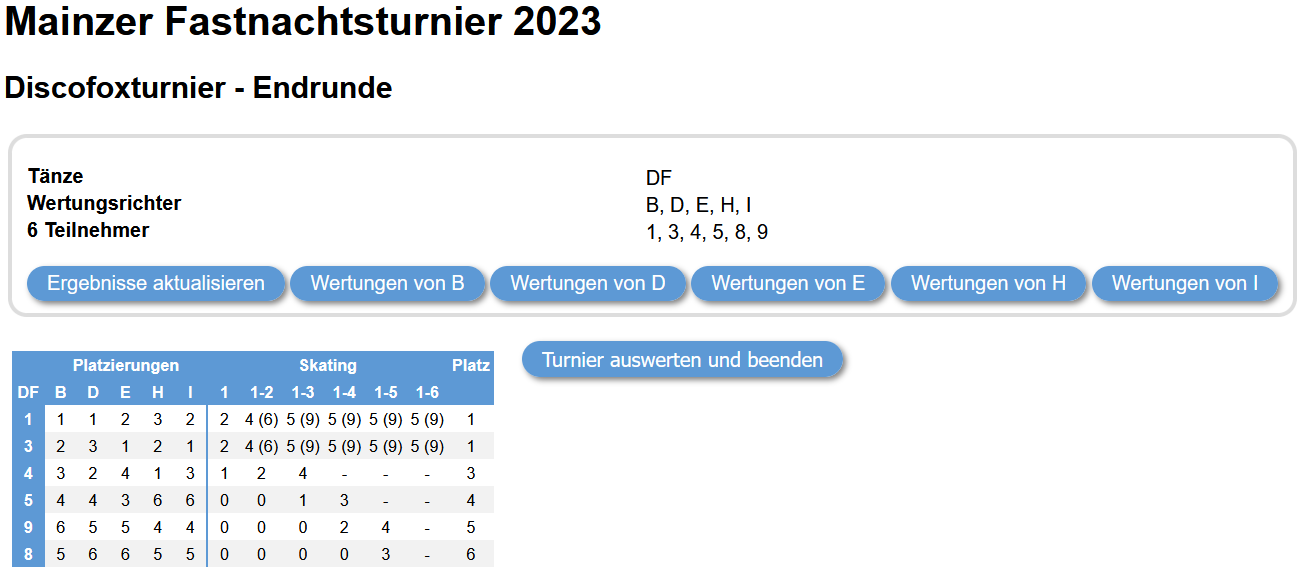
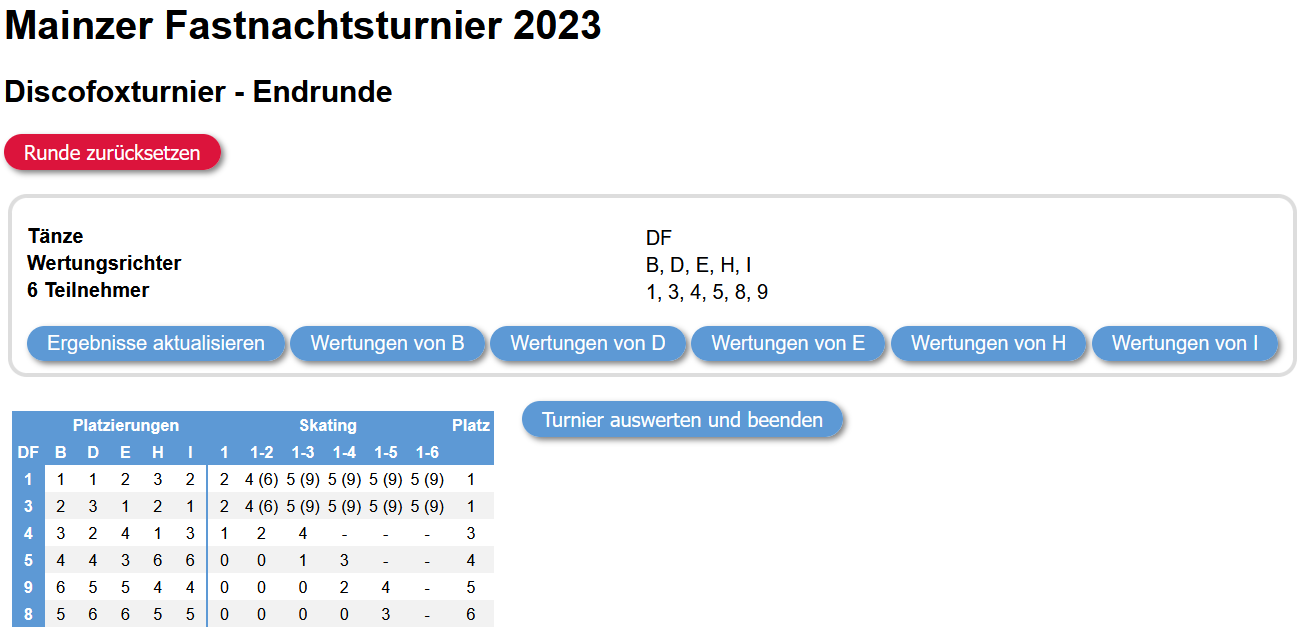
added possibility to reset rounds

diff --git a/main/pydanceweb/templates/pydanceweb/final_round.html b/main/pydanceweb/templates/pydanceweb/final_round.html
@@ -1,5 +1,11 @@
 {% extends 'pydanceweb/base_round.html' %}
 
+{% block links %}
+{% if dance_round.is_running %}
+{% include "pydanceweb/reset_round.html" %}
+{% endif %}
+{% endblock %}
+
 {% block form_controls %}
     {% if dance_round.is_finished %}
     {% elif dance_round.is_running %}

diff --git a/main/pydanceweb/templates/pydanceweb/preliminary_round.html b/main/pydanceweb/templates/pydanceweb/preliminary_round.html
@@ -2,6 +2,7 @@
 
 {% block links %}
 {% if dance_round.is_running %}
+{% include "pydanceweb/reset_round.html" %}
 <div class="row">
   <a href="{% url 'handle_heats' dance_round.section_id dance_round.id %}" class="button">zu den Heats</a>
 </div>

diff --git a/main/pydanceweb/templates/pydanceweb/reset_round.html b/main/pydanceweb/templates/pydanceweb/reset_round.html
@@ -1,0 +1,7 @@
+<div class="row">
+  <form method="post">
+    {% csrf_token %}
+    <input type="hidden" name="reset" id="reset" value="true"/>
+    <button class="alert">Runde zurücksetzen</button>
+  </form>
+</div>

diff --git a/main/pydanceweb/templates/pydanceweb/section_results.html b/main/pydanceweb/templates/pydanceweb/section_results.html
@@ -2,6 +2,9 @@
 
 {% block content %}
 <h2>{{ section.name }} - Ergebnisse</h2>
+{% if resetable %}
+{% include "pydanceweb/reset_round.html" %}
+{% endif %}
 <div class="row">
 {% if place_table %}
 <div class="row">

diff --git a/main/pydanceweb/static/pydanceweb/style.css b/main/pydanceweb/static/pydanceweb/style.css
@@ -115,6 +115,10 @@ button, .button {
     cursor: pointer;
 }
 
+button.alert, .button.alert {
+  background-color: crimson;
+}
+
 button:hover, .button:hover {
     background-color: #FFF;
     color: rgb(157,0,0);

diff --git a/main/pydanceweb/views.py b/main/pydanceweb/views.py
@@ -3,7 +3,7 @@ from django.shortcuts import render
 # Create your views here.
 from django.http import HttpResponse
 from django.template import loader
-from django.shortcuts import render
+from django.shortcuts import redirect, render
 
 from .pydance_objects import *
 from .pydance_tables import *
@@ -82,6 +82,11 @@ def _prepare_round(request, section_id, round_id):
     return render(request, 'pydanceweb/dance_round_preparation.html', context)
 
 def handle_round(request, section_id, round_id):
+    if request.POST and 'reset' in request.POST and request.POST['reset'] == 'true':
+        DanceRounds.remove(DanceRounds.get(section_id, round_id))
+        if round_id > 1:
+            return redirect('handle_round', section_id = section_id, round_id = round_id - 1)
+
     dance_round = DanceRounds.get(section_id, round_id)
     if not dance_round:
         return _prepare_round(request, section_id, round_id)
@@ -155,10 +160,14 @@ def handle_heats(request, section_id, round_id, dance_id=""):
 # => finish current section
 def finalize_section(request, section_id):
     final_round = DanceRounds.get_final(section_id)
+    if request.POST and 'reset' in request.POST and request.POST['reset'] == 'true':
+        Sections.remove_results(Sections.get(section_id))
+        return redirect('handle_round', section_id = final_round.section_id, round_id = final_round.id)
+
     if final_round and not final_round.is_finished:
         # create final summary and finish final
         final_summary = FinalSummaries.create(section_id)
-        final_round = DanceRounds.get_final(section_id)
+        #final_round = DanceRounds.get_final(section_id)
         final_round.is_running = False
         final_round.is_finished = True
         DanceRounds.save(final_round)
@@ -171,7 +180,7 @@ def finalize_section(request, section_id):
 
         # create section results
         Sections.create_results(section)
-    return show_results(request, section_id)
+    return show_results(request, section_id, resetable=True)
 
 # => calc awards
 def handle_award(request, award_id):
@@ -301,13 +310,14 @@ def show_heats(request, section_id, round_id, dance_id=""):
     }
     return render(request, 'pydanceweb/heats.html', context)
 
-def show_results(request, section_id):
+def show_results(request, section_id, resetable=False):
     section = Sections.get(section_id)
     place_table = Sections.get_results(section)
 
     context = {
         'conf': Conf.get(),
         'section': section,
+        'resetable': resetable
     }
 
     if place_table is not None:

diff --git a/main/pydanceweb/models.py b/main/pydanceweb/models.py
@@ -6,6 +6,7 @@ from .award_calculator import *
 from glob import glob
 import json
 import os
+import shutil
 
 # generic helper functions
 def dump_json(json_dict, filepath):
@@ -238,6 +239,19 @@ class Sections:
         place_df['place'] = 1
         return place_df
 
+    def remove_results(section):
+        if not section:
+            return
+        filepath = Sections._get_results_path(section.id)
+        if os.path.exists(filepath):
+            print(filepath)
+            os.remove(filepath)
+            # set final running
+            final_round = DanceRounds.get_final(section.id)
+            final_round.is_finished = False
+            final_round.is_running = True
+            DanceRounds.save(final_round)
+
 class DanceRounds:
     def _get_dir(section_id, round_id):
         return _get_data_path(section_id, round_id)
@@ -313,6 +327,19 @@ class DanceRounds:
     def save(dance_round):
         get_or_create_dir(DanceRounds._get_dir(dance_round.section_id, dance_round.id))
         dump_json(dance_round.to_dict(), DanceRounds._get_filepath(dance_round.section_id, dance_round.id))
+
+    def remove(dance_round):
+        section_id = dance_round.section_id
+        round_id = dance_round.id
+        shutil.rmtree(DanceRounds._get_dir(section_id, round_id))
+        current_section = Sections.get(section_id)
+        current_section.is_running = False
+        Sections.save(current_section)
+        if round_id > 1:
+            previous_round = DanceRounds.get(section_id, round_id - 1)
+            previous_round.is_running = True
+            previous_round.is_finished = False
+            DanceRounds.save(previous_round)
 
 class CallbackMarks:
     def _get_filepath(adjudicator_id, section_id, round_id, dance_id=''):

diff --git a/README.md b/README.md
@@ -84,7 +84,9 @@ From the heats view you can access the round view via the top left button (and f
 
 ![c.f. screenshots/desk_6_preliminary_round_view_2.png](screenshots/desk_6_preliminary_round_view_2.png)
 
-In this view you can access the adjudicator views to edit their callback marks (e.g. in case they have problems or in order to print adjudicator sheets) and press the reload button to update the current result table with callbacks marks from adjudicators. Having done so, you can move on to the next round by selecting the number of competitors that should be called back. Please note that this will lead to a final round if noted that way. (A final is every non first round with 6 or less competitors or up to 8 if the 7th and or 8th are tied with the 6th.)
+In this view you can remove all round data and go back to the last round (e.g. if you accidentally moved on to the next round early or chose an unwanted callback option).
+
+You can also access the adjudicator views to edit their callback marks (e.g. in case they have problems or in order to print adjudicator sheets) and press the reload button to update the current result table with callbacks marks from adjudicators. Having done so, you can move on to the next round by selecting the number of competitors that should be called back. Please note that this will lead to a final round if noted that way. (A final is every non first round with 6 or less competitors or up to 8 if the 7th and or 8th are tied with the 6th.)
 
 ### Handling Final Rounds and Finishing a Section
 
@@ -101,6 +103,8 @@ The view for a running final round and its analysis is also pretty similar to th
 If you click on the button to finalize the section you will get to the section results view:
 
 ![c.f. screenshots/desk_9_results.png](screenshots/desk_9_results.png)
+
+In this view you can get back to the final round view by clicking the reset button (which may once again be useful if you accidentally moved on to this view too early).
 
 All skating tables will be saved to  `data/sections/SECTION_ID/ROUND_NO/SECTION_ID_ROUND_NO_DANCE_NO_results.csv`, the final summary to `data/sections/SECTION_ID/ROUND_NO/SECTION_ID_ROUND_NO_results.csv` and a table with places for all competitors (merged from all rounds of the section) to `data/sections/SECTION_ID/results.csv`.
 
@@ -200,6 +204,10 @@ If there are any finished sections you will also find links to the detailed resu
 
 ![c.f. screenshots/_3_to_results.png](screenshots/_3_to_results.png)
 
+However, this view will lack a reset option:
+
+![c.f. screenshots/_4_results.png](screenshots/_4_results.png)
+
 
 ## TODOs
 
@@ -207,7 +215,6 @@ While the app is fully functional (especially for single dance sections), there 
 
 - make it possible to upload competitor/adjudicator participations in the tournament desk view
 - make it possible to print all adjudicator sheets for a given round at once
-- make it possible to remove the last running round of a section
 - make it possible to redraw the heats from  the tournament desk heat view
 - make it possible to add competitors to running sections
 - make it possible to also use rule 10 for additional awards
